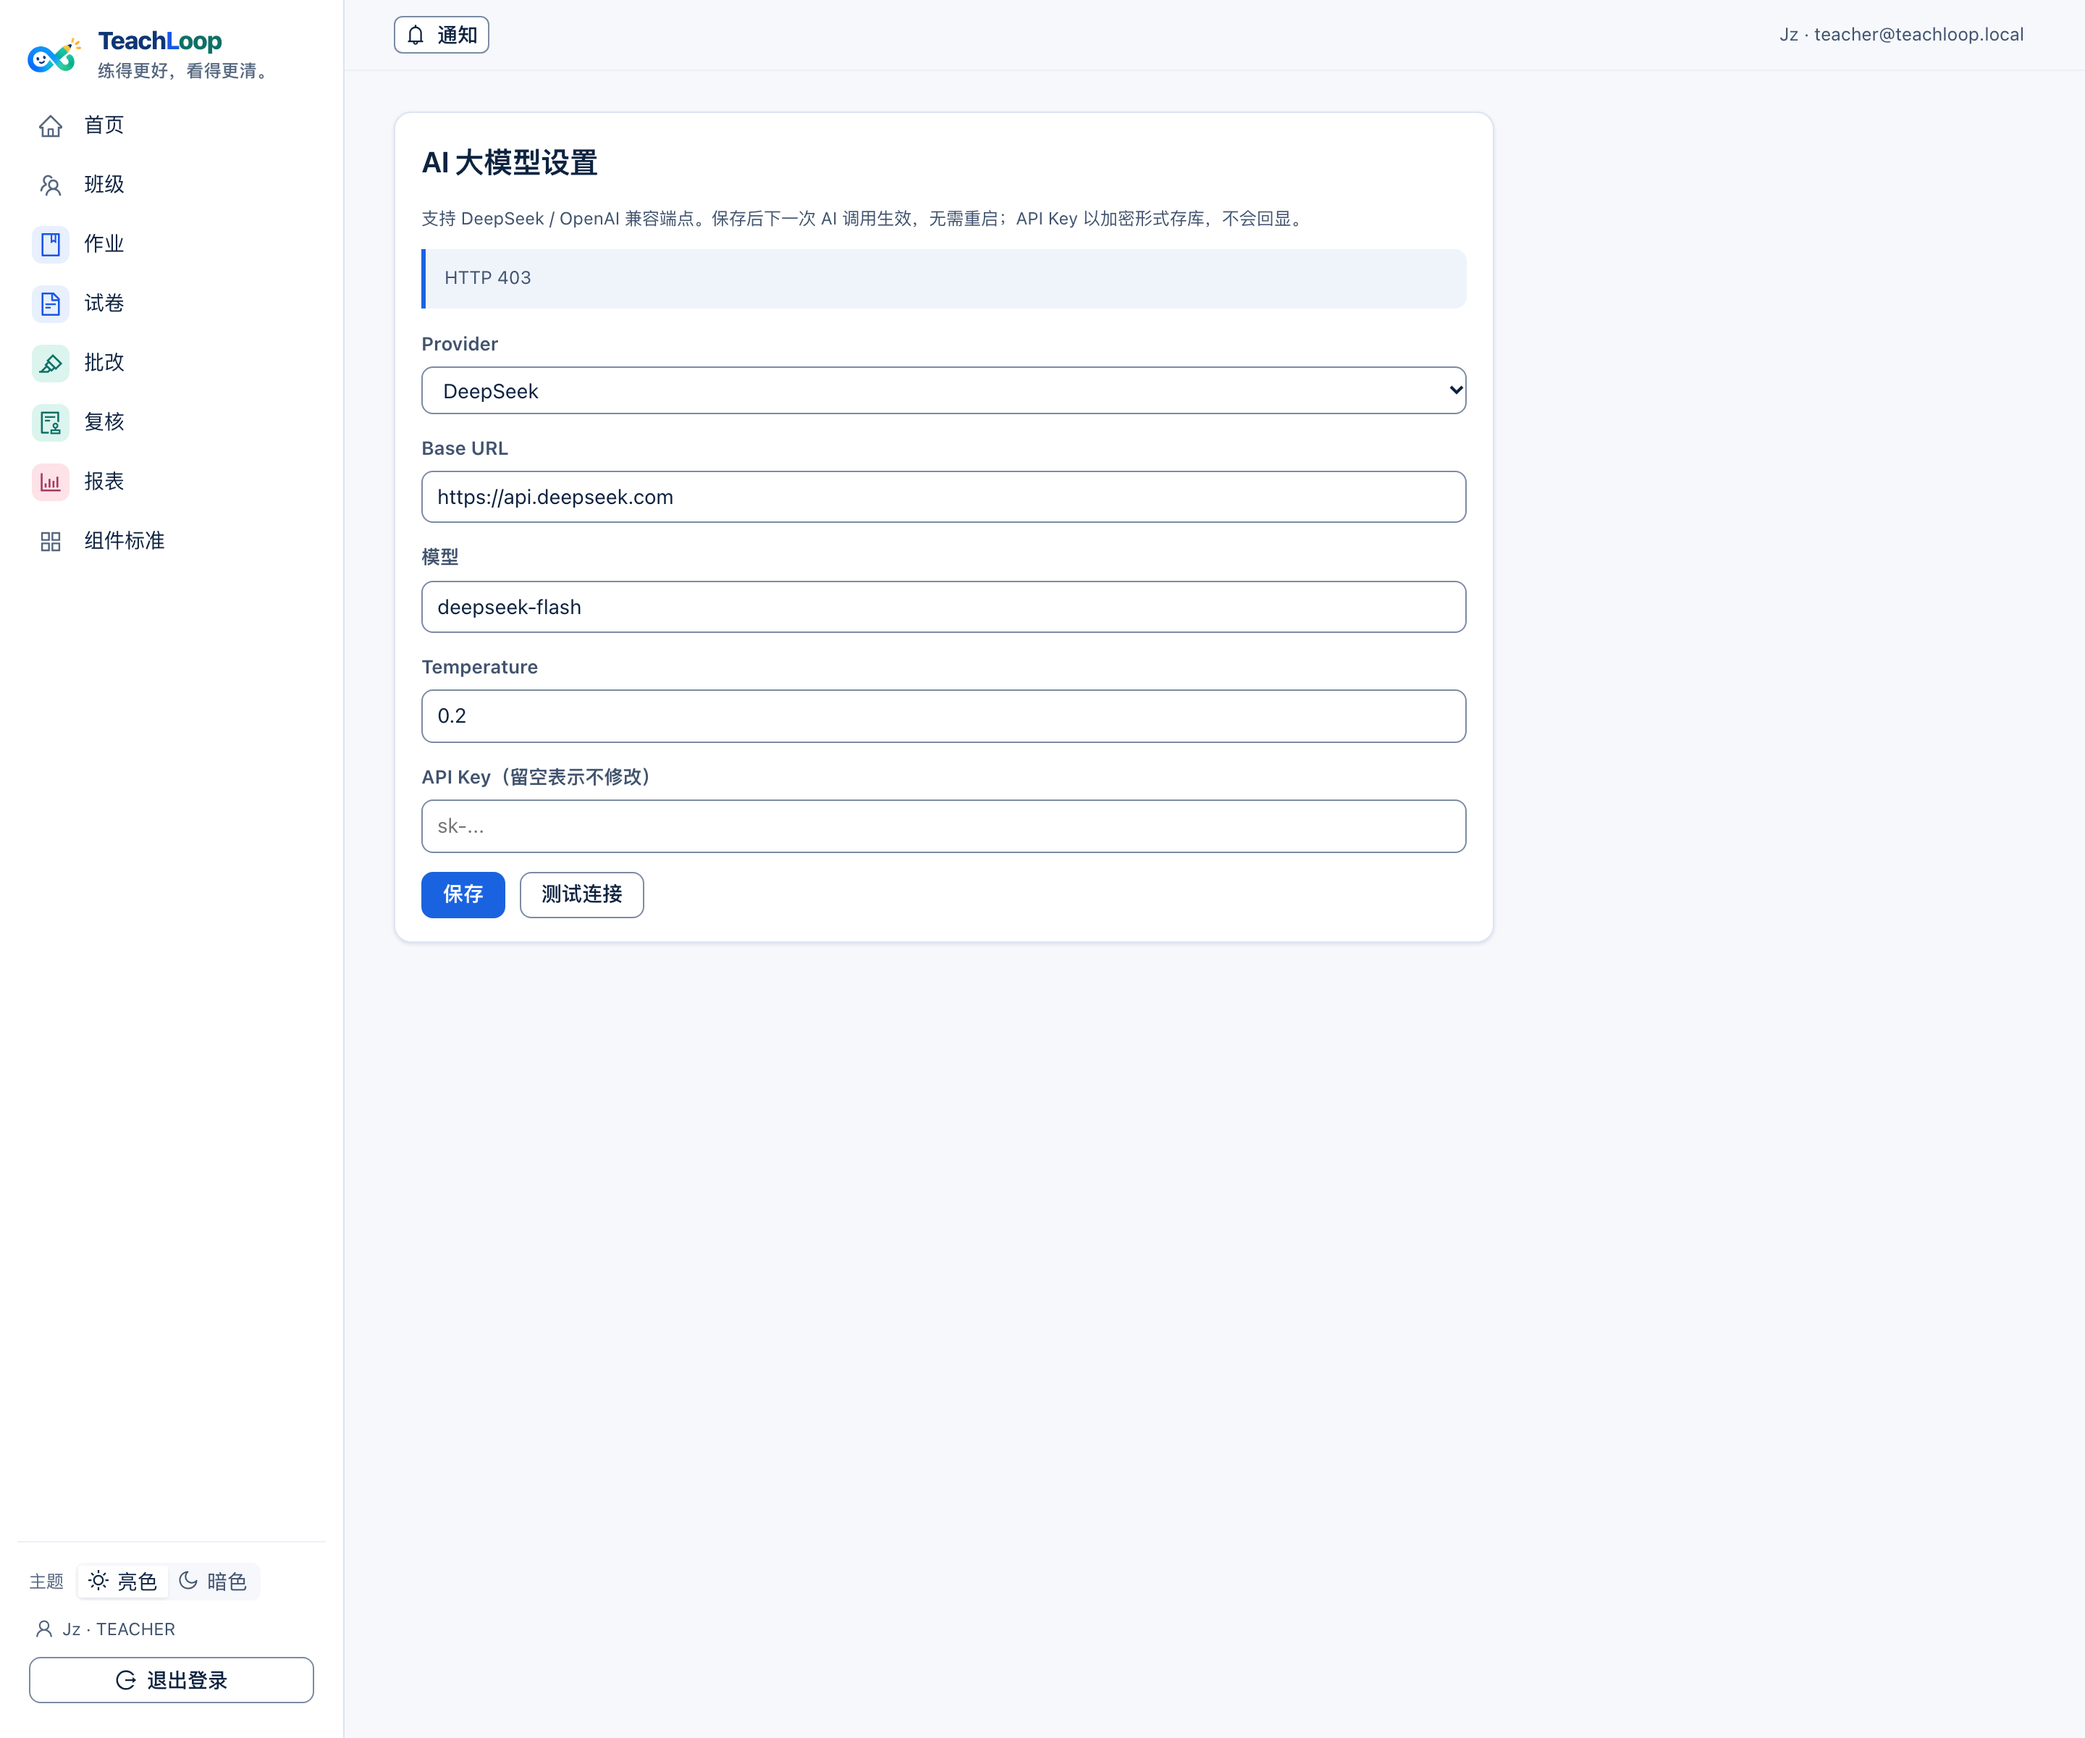
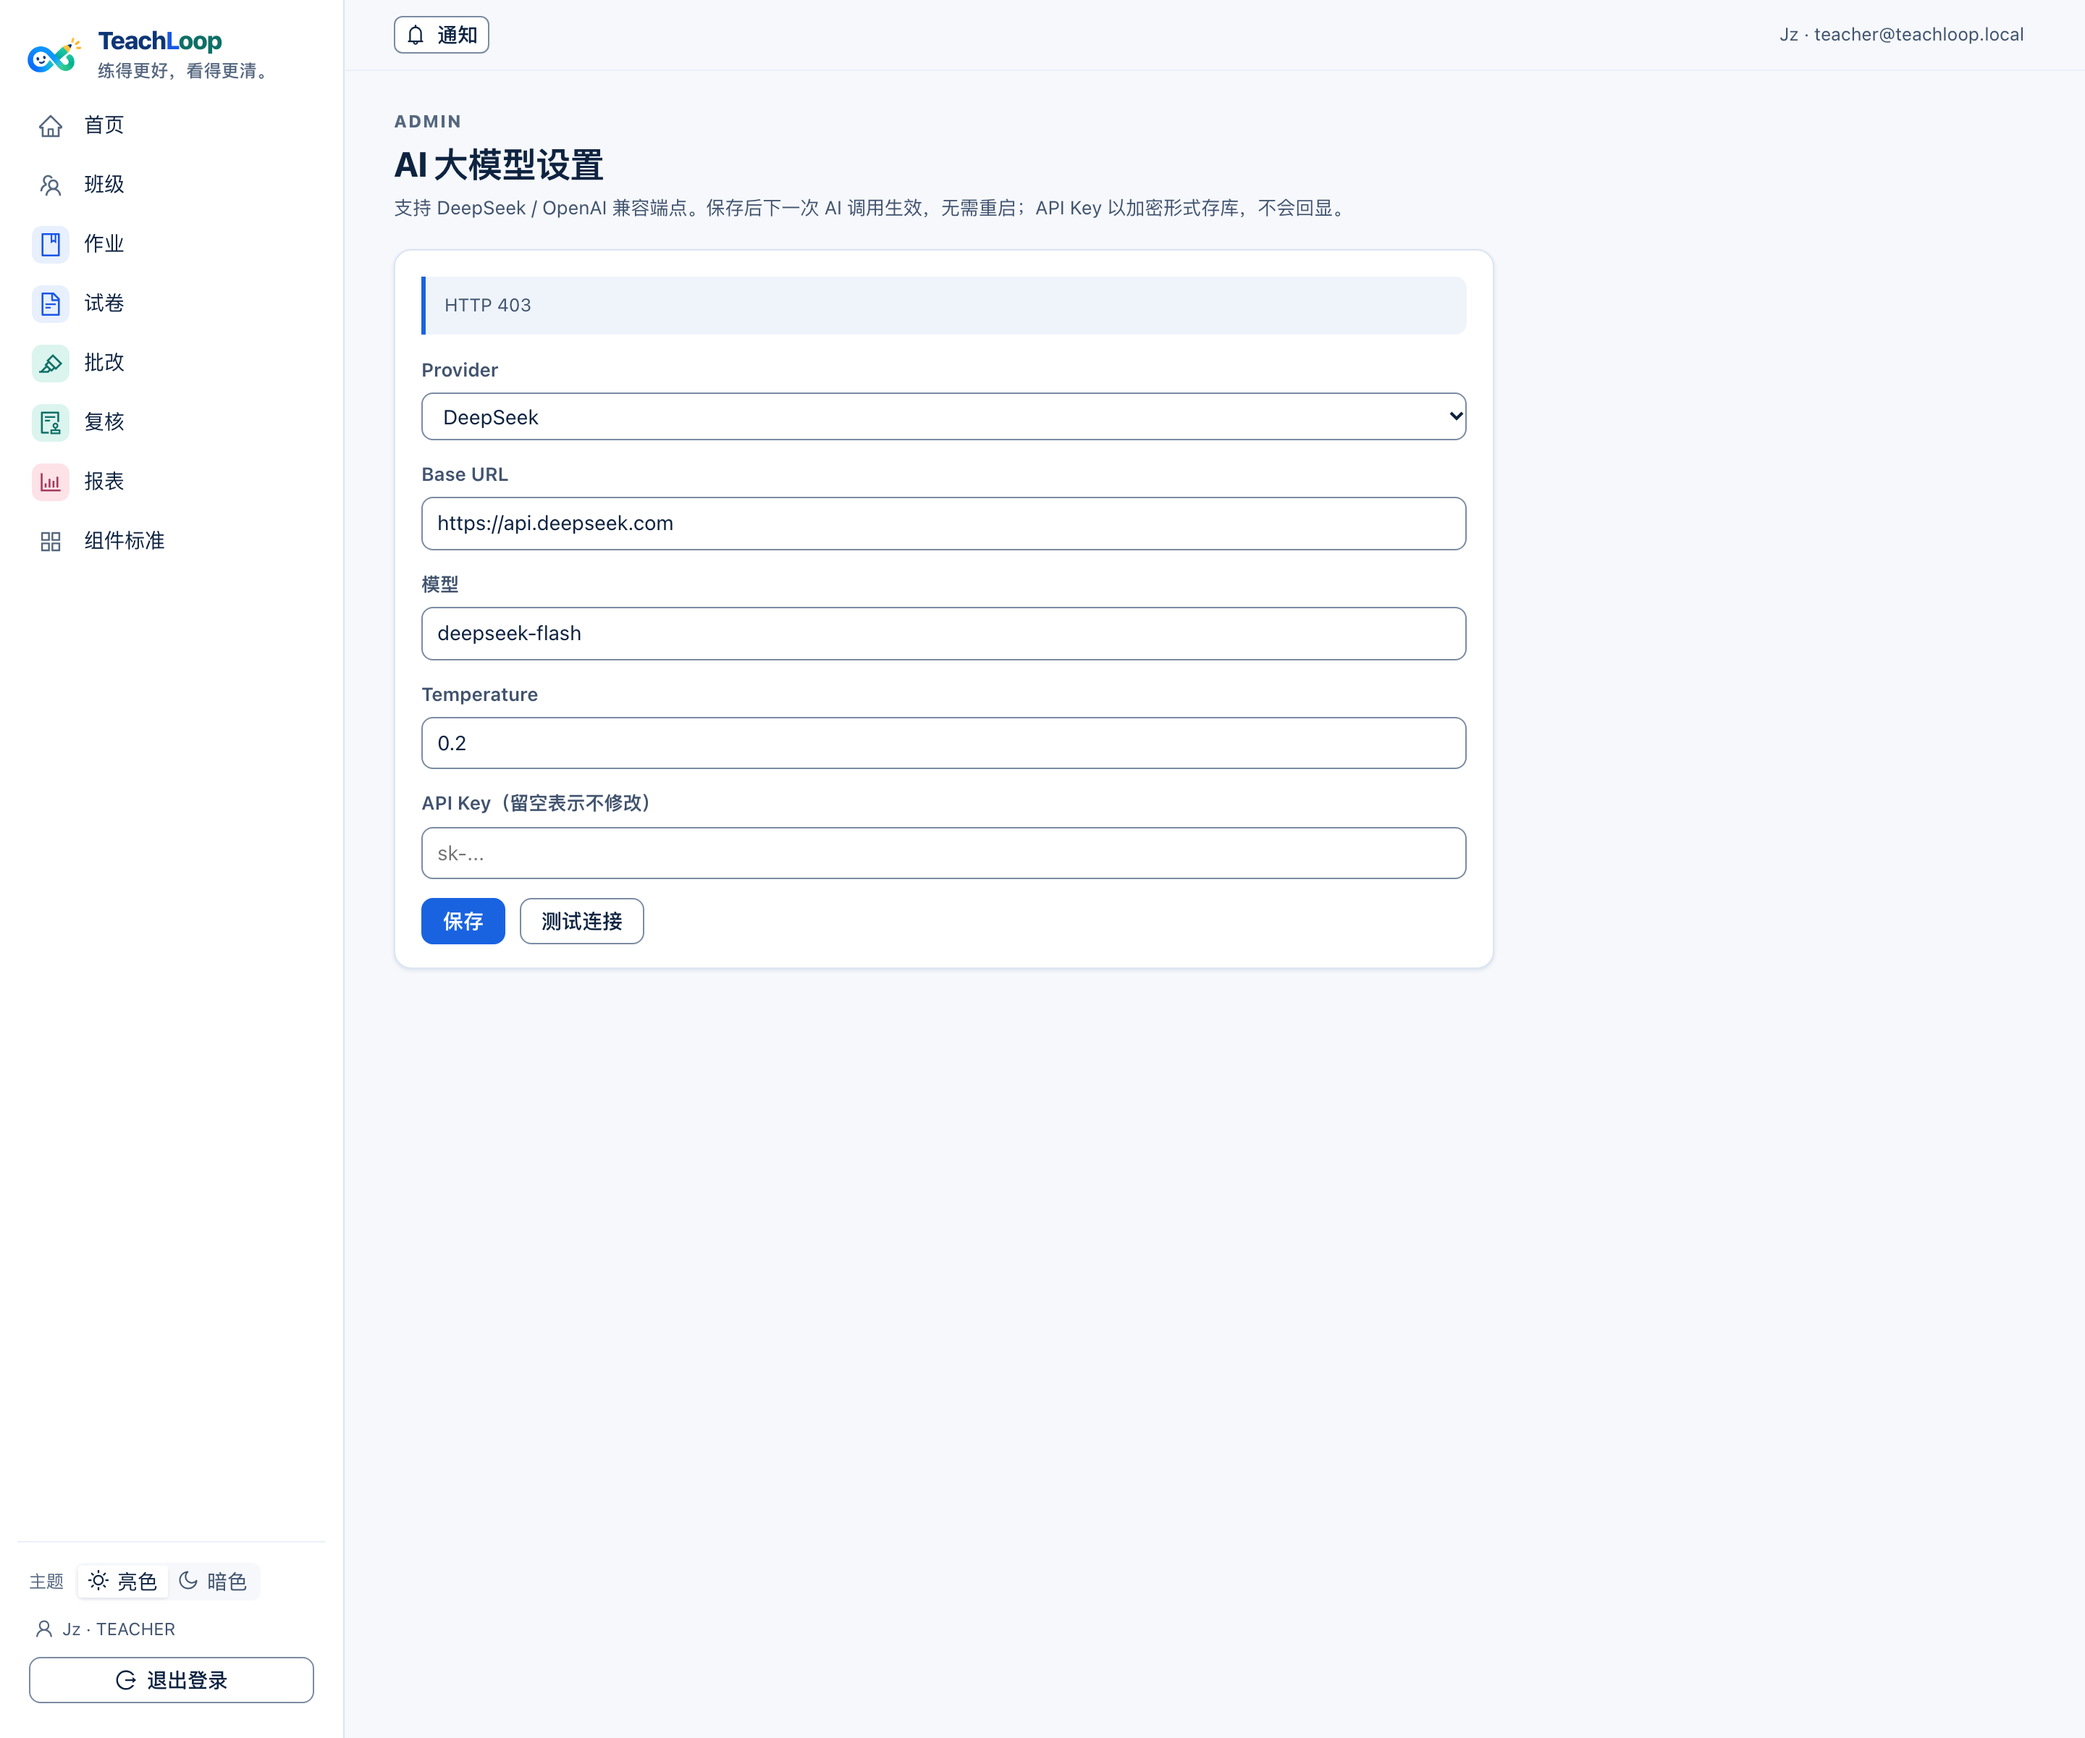
test(brand): 英文界面 + 键盘焦点环证据 + 管理员页页头（R8）
- AdminAiPage 改用 PageHeader，补上 ADMIN 页头（此前是卡片内 h1，无 eyebrow）
- shoot-app.mjs 补英文（teachloop.lang 才是 i18next 的存储键）与 Tab 焦点环截图；修 viewport 残留
- 新增 login-en / home-en / login-focus-light / focus-papers-light 四张证据；管理员页截图刷新
- docs/reports/brand-app-2026-10-22/README.md：截图清单、重跑方式、数据口径、未验证项
- check-ui 122 处、check-i18n 1197 键、contrast 40/40、typecheck/build 0

diff --git a/web/src/app/AdminAiPage.tsx b/web/src/app/AdminAiPage.tsx
@@ -1,6 +1,7 @@
 import { useEffect, useState } from 'react'
 import { useTranslation } from 'react-i18next'
 import { api } from '../api/client'
+import { PageHeader } from '../ui'
 
 interface AiSettingsView {
   provider: string
@@ -53,9 +54,9 @@ export default function AdminAiPage() {
   }
 
   return (
-    <div className="card" style={{ maxWidth: 760 }}>
-      <h1>{t('app.ai.title')}</h1>
-      <p className="small muted">{t('app.ai.sub')}</p>
+    <>
+      <PageHeader title={t('app.ai.title')} sub={t('app.ai.sub')} />
+      <div className="card" style={{ maxWidth: 760 }}>
       {error && <div className="inline-note danger">{error}</div>}
       {view && (
         <div className="inline-note">
@@ -95,6 +96,7 @@ export default function AdminAiPage() {
           })}
         </p>
       )}
-    </div>
+      </div>
+    </>
   )
 }

diff --git a/docs/reports/brand-app-2026-10-22/README.md b/docs/reports/brand-app-2026-10-22/README.md
@@ -1,0 +1,44 @@
+# 品牌视觉真页面截图（2026-10-22）
+
+这是 `specs/006-brand-visual/` 的验收证据：把品牌层落到真前端之后，用 CDP 登录并逐路由截的图。
+不是像素基线（21 屏 × 亮暗基线仍是 003 的 T308，未做），是「改完长什么样」的评审材料。
+
+## 怎么重跑
+
+前置：本机 Chrome + 一个 dev server（代理到有数据的后端）：
+
+```bash
+# 终端 A：起前端（示例：代理到 QA 后端 8011）
+cd web && TEACHLOOP_API=http://127.0.0.1:8011 WEB_PORT=5173 pnpm dev
+
+# 终端 B：截图（默认写到本目录；数据未恢复时请用 OUT_DIR 避免覆盖）
+node scripts/brand/shoot-app.mjs
+OUT_DIR=.cache/brand-app-empty node scripts/brand/shoot-app.mjs
+```
+
+脚本会：登出 → 截登录页亮/暗/焦点/英文 → 初始化页 → 教师登录 → 截教师全部路由
+→ 学生登录 → 截学生路由（有考试可开始时自动点「开始答题」再截 live 页）。
+
+## 截了什么
+
+| 组 | 文件 | 证明什么 |
+| :--- | :--- | :--- |
+| 登录 | `login-light` / `login-dark` / `login-en` / `login-focus-light` | 整标 + brandLine + 四个功能位；暗色文本字标；英文界面；焦点环可见 |
+| 壳层与首页 | `home-light` / `home-dark` / `home-en` / `focus-papers-light` | 侧栏品牌区、导航功能色胶囊、页头 eyebrow、键盘焦点环 |
+| 教师 | `classes-*`、`assignments-*`、`papers-*`、`new-assignment-*`、`grading-*`、`review-*`、`reports-*` | 全站令牌继承 + 模块 eyebrow（CREATE/ASSESS/INSIGHTS） |
+| 深层教师 | `grading-detail-light`、`class-summary-light`、`paper-wizard-light`、`paper-import-light` | 表单、表格、统计卡、步骤条在新令牌下不变形 |
+| 学生 | `student-home-*`、`student-classes-light`、`student-feedback-light`、`student-assignment-light`、`student-exam-entry-light` | 学生端配色与教师端一致；作答须知用 ASSESS 青 |
+| 其他 | `profile-light`、`notifications-light`、`admin-ai-light`、`setup-light`、`ui-kit-*` | 中性页不上功能色；组件页含品牌色板 |
+
+## 数据口径
+
+- 图里的班级 / 试卷 / 作业是 **QA 环境的测试数据**（`exam11111`、`222222` 之类），不是生产数据；
+  用户 2026-10-22 已把 QA 库清空准备重建，重建后重跑脚本即可刷新。
+- 空态版本（清库后）在 `.cache/brand-app-empty/`，未入库；它证明空态/零值样式正常。
+
+## 未验证
+
+- **考试作答 live 页**：需要一场「可以开始」的考试；脚本已支持自动点「开始答题」，
+  数据重建后会自动补 `student-exam-live-light.png`。
+- **反馈详情页**：需要一条有反馈的提交。
+- **跨浏览器**：只在 Chrome（headless 1440×900 @2x）验证。

diff --git a/specs/006-brand-visual/spec.md b/specs/006-brand-visual/spec.md
@@ -182,7 +182,9 @@ Practice 的紫色是淡紫底的同族延伸，不是原图取样值；logo 里
 
 ### 6.1 已截图的路由
 
-登录、初始化；教师：首页、班级、作业、作业新建、试卷、试卷新建（亮/暗）、导入、批改总览、批改详情、复核、报表、班级汇总、资料、通知、组件标准、管理员 AI 设置；学生：首页、班级、反馈、作业、作答须知。亮暗覆盖主路径。
+登录（亮/暗/英文/焦点）、初始化；教师：首页（亮/暗/英文/焦点）、班级、作业、作业新建、试卷、试卷新建（亮/暗）、
+导入、批改总览、批改详情、复核、报表、班级汇总、资料、通知、组件标准、管理员 AI 设置；
+学生：首页（亮/暗）、班级、反馈、作业、作答须知。完整清单见 `docs/reports/brand-app-2026-10-22/README.md`。
 
 ### 6.2 明确未验证（不许写成已优化）
 
